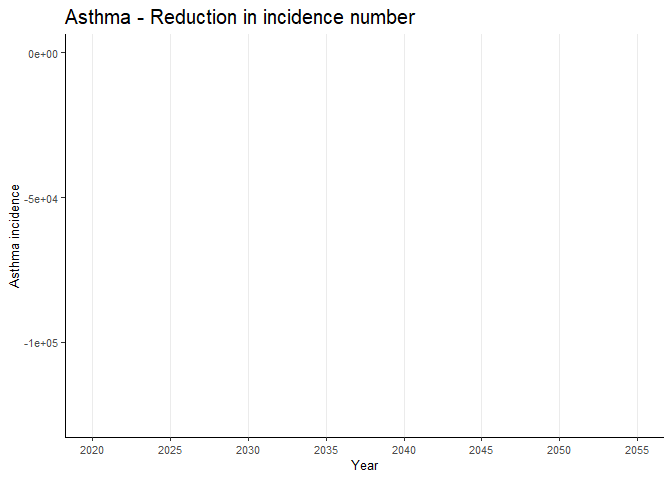
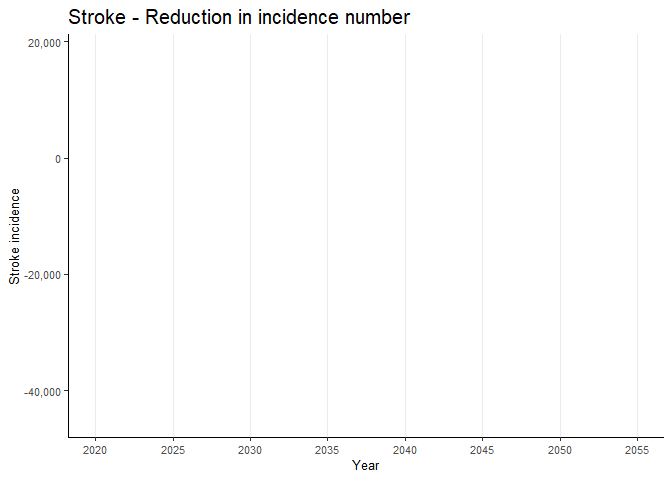
update README

diff --git a/README.md b/README.md
@@ -99,15 +99,15 @@ following code:
 
 ``` r
 data_weighted_ds_wide_diff <- gen_data_weighted_ds_diff(data_weighted)
-inc_diff("asthma", data_weighted_ds_wide_diff)
+inc_diff("stroke", data_weighted_ds_wide_diff)
 #> Warning: Removed 170 rows containing missing values or values outside the scale range
 #> (`geom_line()`).
 ```
 
 <img src="man/figures/README-inc_diff_plot-1.png" width="100%" />
 
-To plot cumulative incidence difference for, say, “diabetes”, you can
-use the following code:
+To plot the cumulative incidence difference for, say, “diabetes”, you
+can use the following code:
 
 ``` r
 data_weighted_ds_wide_collapse <- gen_data_weighted_ds_cumdiff(data_weighted)
